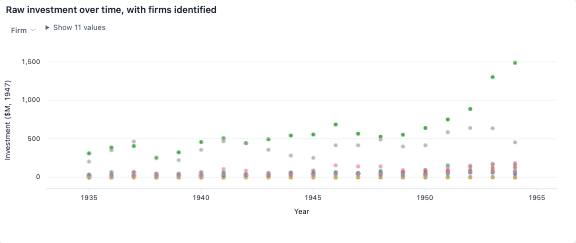
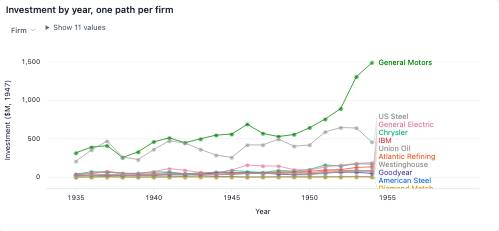
feat(daily): rewrite the Grunfeld notebooks around firm size and growth

diff --git a/apps/demo/public/daily-viz/projects/grunfeld/investment-concentration.eda.md b/apps/demo/public/daily-viz/projects/grunfeld/investment-concentration.eda.md
@@ -1,6 +1,6 @@
-# A selected corporate panel can be dominated by a few firms
+# One firm made 41% of the panel's investment; three made 76%
 
-**How concentrated is cumulative recorded investment among the firms in this panel?** Each row is one firm summary.
+**How concentrated was investment among the eleven Grunfeld firms?** Each row is one firm, summarizing its twenty years from 1935 to 1954: total investment, mean investment, and mean market value, in millions of 1947 dollars. Every firm has the same 20 years, so a bigger total is a bigger firm, not a longer record.
 
 ```eda
 eda query=firms
@@ -9,56 +9,44 @@ years:num=firms.years label="Firm-years"
 invest_mean:num=firms.invest_mean label="Mean investment ($M, 1947)"
 value_mean:num=firms.value_mean label="Mean market value ($M, 1947)"
 invest_total:num=firms.invest_total label="Total investment ($M, 1947)"
+calc intensity = invest_mean / value_mean * 100
+field intensity label="Investment per $100 of market value ($)"
 ```
 
-## 1. Mean market value against mean investment
+## General Motors alone was 41% of the total
 
-Each point now represents one firm rather than a firm-year. That changes the observational unit and removes the chronological variation inside each company.
+Rank the firms by twenty-year total investment. General Motors invested $12,160 million, 41.46% of everything the panel spent. General Motors and US Steel together account for 69.45% of cumulative panel investment, and the three largest firms together account for 76.43%. The bottom five firms are slivers.
 
 ```eda
-scatter @nb-grunfeld-investment-concentration-chart-1 x=value_mean y=invest_mean title="Mean market value against mean investment" x.title="Mean market value ($M, 1947)" y.title="Mean investment ($M, 1947)"
+group @totals sum(invest_total) by=firm
+row @nb-grunfeld-investment-concentration-chart-1 firm group=totals topN=11 title="Total investment 1935 to 1954, by firm" x.title="Total investment ($M, 1947)" {
+  callout "41% of the panel" category="General Motors" offset=-120,60
+}
 ```
 
-## 2. The distribution of cumulative investment by firm
+## Investment scaled with market value
 
-A firm contributes one total across its years. The horizontal measure is a flow accumulated over time, not an asset value measured at one date.
+Each point is one firm, placed by its mean market value and mean investment. General Motors sits alone at the top right, with a mean market value of $4,334 million. The fitted line runs through the other ten, which cluster below $2,000 million in value and $110 million in yearly investment.
 
 ```eda
-hist @nb-grunfeld-investment-concentration-chart-2 invest_total bins=8 title="The distribution of cumulative investment by firm" x.title="Total investment ($M, 1947)" y.title="Rows"
+scatter @nb-grunfeld-investment-concentration-chart-2 x=value_mean y=invest_mean regression=linear title="Mean investment against mean market value, one point per firm" x.title="Mean market value ($M, 1947)" y.title="Mean investment ($M, 1947)" {
+  callout "General Motors" pick=max
+}
 ```
 
-**Finding.** The largest firm accounts for 41.46% of cumulative panel investment.
+## Relative to its size, US Steel invested hardest
 
-## 3. Separate scale from observation count
-
-A high total might reflect more years, larger annual amounts, or both. The explicit year count checks which of these explanations is available in this panel.
+Divide each firm's mean investment by its mean market value. US Steel invested $20.82 per $100 of market value each year, General Motors $14.03, and General Electric, the third-largest investor in dollars, only $5.27. Union Oil and Atlantic Refining, small in dollars, invested the most for their size.
 
 ```eda
-scatter @nb-grunfeld-investment-concentration-chart-3 x=years y=invest_total title="Separate scale from observation count" x.title="Firm-years" y.title="Total investment ($M, 1947)"
-```
-
-## 4. How many firms fall below a cumulative amount?
-
-The cumulative curve gives firms equal weight. It therefore answers a different question from the share of all investment contributed by the largest firms.
-
-```eda
-ecdf @nb-grunfeld-investment-concentration-chart-4 invest_total direction=below title="How many firms fall below a cumulative amount?" x.title="Total investment ($M, 1947)"
-```
-
-**Finding.** The three largest firms together account for 76.43% of cumulative panel investment.
-
-## 5. The rows behind the charts
-
-Sort a column or select rows to check any value above. Selections in a notebook stay with their own chart.
-
-```eda
-table @nb-grunfeld-investment-concentration-records firm,years,invest_mean,value_mean,invest_total title="Records behind this comparison"
+group @rate sum(intensity) by=firm
+row @nb-grunfeld-investment-concentration-chart-3 firm group=rate topN=11 title="Mean yearly investment per $100 of market value, by firm" x.title="Investment per $100 of market value ($)"
 ```
 
 ## Takeaway
 
-Changing from firm-years to firm summaries makes concentration visible without giving each large firm more rows. Retain the observation counts to distinguish investment scale from a longer recorded history.
+Three of eleven firms made three-quarters of the panel's investment, and General Motors alone made two-fifths. Any pooled statistic on this panel is mostly a statistic about General Motors and US Steel. For how hard a firm invested, scale by its size: on that measure, the oil companies and US Steel lead.
 
 ## Limits
 
-The denominator is cumulative investment among the selected panel firms and years, not all corporate investment. Adding market values across years would not represent a stock of wealth, so that quantity is not used.
+Eleven firms chosen for a 1958 textbook, so the denominator is the panel, not American industry. Market value is a mean of twenty year-end figures, and summing it across years would not be a stock of anything, so only investment is totaled.

diff --git a/apps/demo/public/daily-viz/projects/grunfeld/within-firm.eda.md b/apps/demo/public/daily-viz/projects/grunfeld/within-firm.eda.md
@@ -1,6 +1,6 @@
 # Big firms invest more, but a firm's good year is a weaker signal
 
-**Does a firm invest more in a year its market value rises?** Each row is one firm-year.
+**Does a firm invest more in a year its market value rises?** Each row is one firm-year: eleven large American companies from 1935 to 1954, with gross investment and market value in millions of 1947 dollars. Across the panel the answer looks like a resounding yes. Within one firm, from one year to the next, it is a quieter yes, and for some firms no answer at all.
 
 ```eda
 eda query=r
@@ -12,54 +12,41 @@ invest_change:num=r.invest_change label="Change in investment ($M, 1947)"
 value_change:num=r.value_change label="Change in market value ($M, 1947)"
 ```
 
-## 1. Firm size in the pooled levels
+## Across firms, size explains most of it
 
-Each point is a firm-year rather than a distinct firm. Large firms can dominate the visual range without receiving more statistical weight per point.
+Each point is one firm-year, colored by firm, with a fitted line per firm. Across firm-year levels, market value and investment had correlation 0.862, but most of that is General Motors sitting far up and to the right of everyone else: its mean market value was $4,334 million, against $71 million for Diamond Match. The other ten firms crowd the bottom-left corner.
 
 ```eda
-scatter @nb-grunfeld-within-firm-chart-1 x=value y=invest color=firm opacity=0.6 title="Firm size in the pooled levels" x.title="Market value ($M, 1947)" y.title="Investment ($M, 1947)"
+scatter @nb-grunfeld-within-firm-chart-1 x=value y=invest color=firm opacity=0.7 regression=linear title="Investment against market value, one point per firm-year" x.title="Market value ($M, 1947)" y.title="Investment ($M, 1947)"
 ```
 
-## 2. Change within a firm, not between firms
+## Within a firm, the link is two-thirds as strong
 
-The preparation resets the difference at each firm boundary. No final year from one company is subtracted from the first year of another.
+Replace each firm-year with its change from the firm's previous year. Size drops out, and what remains is whether a firm that gained value invested more. Across within-firm annual changes, the correlation was 0.562. The cloud leans the right way, but it is a cloud.
 
 ```eda
-scatter @nb-grunfeld-within-firm-chart-2 x=value_change y=invest_change color=firm title="Change within a firm, not between firms" x.title="Change in market value ($M, 1947)" y.title="Change in investment ($M, 1947)"
+scatter @nb-grunfeld-within-firm-chart-2 x=value_change y=invest_change regression=linear title="Change in investment against change in market value, firm-years 1936 to 1954" x.title="Change in market value ($M, 1947)" y.title="Change in investment ($M, 1947)" {
+  rule x=0
+  rule y=0 "No change in investment"
+}
 ```
 
-**Finding.** Across firm-year levels, market value and investment had correlation 0.862.
+## IBM tracked its value; Diamond Match ignored it
 
-## 3. Investment changes differ across firms
-
-Group summaries retain the selected firms separately. They do not turn the repeated annual observations into independent experimental units.
+Two firms, each on its own axes. Inside IBM, market value and investment had correlation 0.975: twenty years on a line. Inside Diamond Match, the correlation was -0.096, a cloud with no lean at all. The pooled 0.86 is an average over eleven firms that range from lockstep to no relationship.
 
 ```eda
-boxplot @nb-grunfeld-within-firm-chart-3 invest_change color=firm title="Investment changes differ across firms" y.title="Change in investment ($M, 1947)"
+scatter @nb-grunfeld-within-firm-chart-3 x=value y=invest regression=linear where.firm=IBM title="IBM: investment against market value, 1935 to 1954" x.title="Market value ($M, 1947)" y.title="Investment ($M, 1947)"
 ```
 
-## 4. How large are the recorded investment changes?
-
-The cumulative distribution reveals negative and positive changes without bin choices. It weights each eligible firm-year difference equally.
-
 ```eda
-ecdf @nb-grunfeld-within-firm-chart-4 invest_change direction=below title="How large are the recorded investment changes?" x.title="Change in investment ($M, 1947)"
-```
-
-**Finding.** Across valid within-firm annual changes, the correlation was 0.562.
-
-## 5. The rows behind the charts
-
-Sort a column or select rows to check any value above. Selections in a notebook stay with their own chart.
-
-```eda
-table @nb-grunfeld-within-firm-records firm,year,invest,value,invest_change,value_change title="Records behind this comparison"
+scatter @nb-grunfeld-within-firm-chart-4 x=value y=invest regression=linear where.firm="Diamond Match" title="Diamond Match: investment against market value, 1935 to 1954" x.title="Market value ($M, 1947)" y.title="Investment ($M, 1947)"
 ```
 
 ## Takeaway
 
-The pooled levels cloud mixes firm size with time movement. Within-firm differences change the unit of comparison to adjacent observations and should be named as a separate question.
+Bigger firms invest more; that is the 0.86. Whether a firm's good year brings more investment is a different question, and the answer varies by firm from 0.98 to below zero. A pooled correlation on panel data answers the between question while sounding like the within one.
 
 ## Limits
 
-These selected historical firms are not a random sample of all businesses. First differences remain observational and can amplify measurement noise. Source monetary units are retained without an unverified multiplier.
+Eleven firms chosen in 1958 for a regression textbook, not a sample of industry. Twenty years per firm give each within-firm correlation only nineteen changes. The dollars are deflated to 1947 but not adjusted for the firms' very different capital stocks.

diff --git a/apps/demo/public/daily-viz/projects/grunfeld/indexing-firms.eda.md b/apps/demo/public/daily-viz/projects/grunfeld/indexing-firms.eda.md
@@ -1,65 +1,50 @@
-# Indexing investment changes the ranking question
+# Indexed to 1935, IBM's investment grew fastest; General Motors ranked fourth
 
-**How different do historical firm trajectories look after each starts at 100?** Each row is one firm-year.
+**Which firm grew its investment fastest?** Each row is one firm-year: eleven large American companies from 1935 to 1954, with gross investment in millions of 1947 dollars. In dollars the answer is General Motors and nothing else is visible. Set each firm's 1935 investment to 100 and a different order appears, with IBM on top.
 
 ```eda
 eda query=r
 invest:num=r.invest label="Investment ($M, 1947)"
-value:num=r.value label="Market value ($M, 1947)"
 firm:cat=r.firm label="Firm"
 year:num=r.year label="Year"
-invest_index:num=r.invest_index label="Investment index (first year = 100)"
-value_index:num=r.value_index label="Market value index (first year = 100)"
+invest_index:num=r.invest_index label="Investment (1935 = 100)"
 ```
 
-## 1. Raw investment over time, with firms identified
+## In dollars, General Motors is the chart
 
-This retains monetary scale but compresses smaller firms into the lower part of the chart. The compression reflects genuine size differences.
+One path per firm. General Motors' investment reached $1,486.7 million in 1954, and US Steel is the only other firm that leaves the floor. Diamond Match's investment never passed $6.5 million; on this axis its twenty years are a flat line at zero.
 
 ```eda
-scatter @nb-grunfeld-indexing-firms-chart-1 x=year y=invest color=firm title="Raw investment over time, with firms identified" x.title="Year" y.title="Investment ($M, 1947)"
+scatter @nb-grunfeld-indexing-firms-chart-1 x=year y=invest color=firm pointSize=3 title="Investment by year, one path per firm" x.title="Year" y.title="Investment ($M, 1947)" {
+  connect.groupField=r.firm connect.orderField=r.year connect.labels=end
+}
 ```
 
-## 2. Normalize each firm to its own first year
+## Indexed to 1935, IBM leads at 667
 
-Every firm starts at the same index by construction. Later vertical separation is proportional to its own starting value, not an absolute-dollar gap.
+Divide every firm's investment by its own 1935 figure. IBM's index reached 666.6 in 1954, General Electric's 572.8, and Westinghouse touched the panel's high of 696.67 in 1953 before falling back. General Motors' index peaked at 468.1: fourth. Goodyear grew least, ending 1954 at 185.3.
 
 ```eda
-scatter @nb-grunfeld-indexing-firms-chart-2 x=year y=invest_index color=firm title="Normalize each firm to its own first year" x.title="Year" y.title="Investment index (first year = 100)"
+scatter @nb-grunfeld-indexing-firms-chart-2 x=year y=invest_index color=firm pointSize=3 title="Investment indexed to each firm's 1935 level, one path per firm" x.title="Year" y.title="Investment (1935 = 100)" {
+  connect.groupField=r.firm connect.orderField=r.year connect.labels=end
+  rule y=100 "1935 level"
+  callout "Westinghouse 1953: 697" pick=max
+}
 ```
 
-**Finding.** The highest first-year-normalized investment index in the panel was 696.67.
+## Where each firm stood in 1954
 
-## 3. The distribution of indexed investment by firm
-
-These distributions summarize trajectories but lose their order. A wide box could reflect sustained growth or large reversals.
+The last year of the panel, one bar per firm. Ten of the eleven firms more than doubled their 1935 investment, and three more than quintupled it; only Goodyear fell short of doubling. The median firm-year index across the whole panel was 183.91, so a typical firm in a typical year was investing nearly twice what it did in 1935.
 
 ```eda
-boxplot @nb-grunfeld-indexing-firms-chart-3 invest_index color=firm title="The distribution of indexed investment by firm" y.title="Investment index (first year = 100)"
-```
-
-## 4. Market-value and investment indices
-
-Both axes use a firm-specific starting reference. That makes proportional movements visible while removing cross-firm level information.
-
-```eda
-scatter @nb-grunfeld-indexing-firms-chart-4 x=value_index y=invest_index color=firm title="Market-value and investment indices" x.title="Market value index (first year = 100)" y.title="Investment index (first year = 100)"
-```
-
-**Finding.** The median firm-year investment index was 183.91.
-
-## 5. The rows behind the charts
-
-Sort a column or select rows to check any value above. Selections in a notebook stay with their own chart.
-
-```eda
-table @nb-grunfeld-indexing-firms-records firm,year,invest,invest_index,value_index title="Records behind this comparison"
+group @end sum(invest_index) by=firm
+row @nb-grunfeld-indexing-firms-chart-3 firm group=end where.year=1954 topN=11 title="Investment index in 1954, by firm (1935 = 100)" x.title="Investment (1935 = 100)"
 ```
 
 ## Takeaway
 
-Use indexed traces for proportional movement and raw values for investment scale. A firm leading one comparison need not lead the other.
+In dollars General Motors invested more than the other ten firms combined in most years. In growth from its own 1935 base it ranked fourth, behind IBM, General Electric, and Westinghouse. The index answers "who grew" and the dollars answer "who spent"; they rank the same firms differently.
 
 ## Limits
 
-An index erases the absolute investment level and can magnify growth from a small base. The reference is each firm’s first year, not a market benchmark. The selected firms and years limit generalization.
+Eleven firms chosen for a 1958 textbook, with 1935 as the base year only because the panel starts there. A firm that invested little in 1935 gets a flattering index, and a firm with a big 1935 program gets a modest one.
